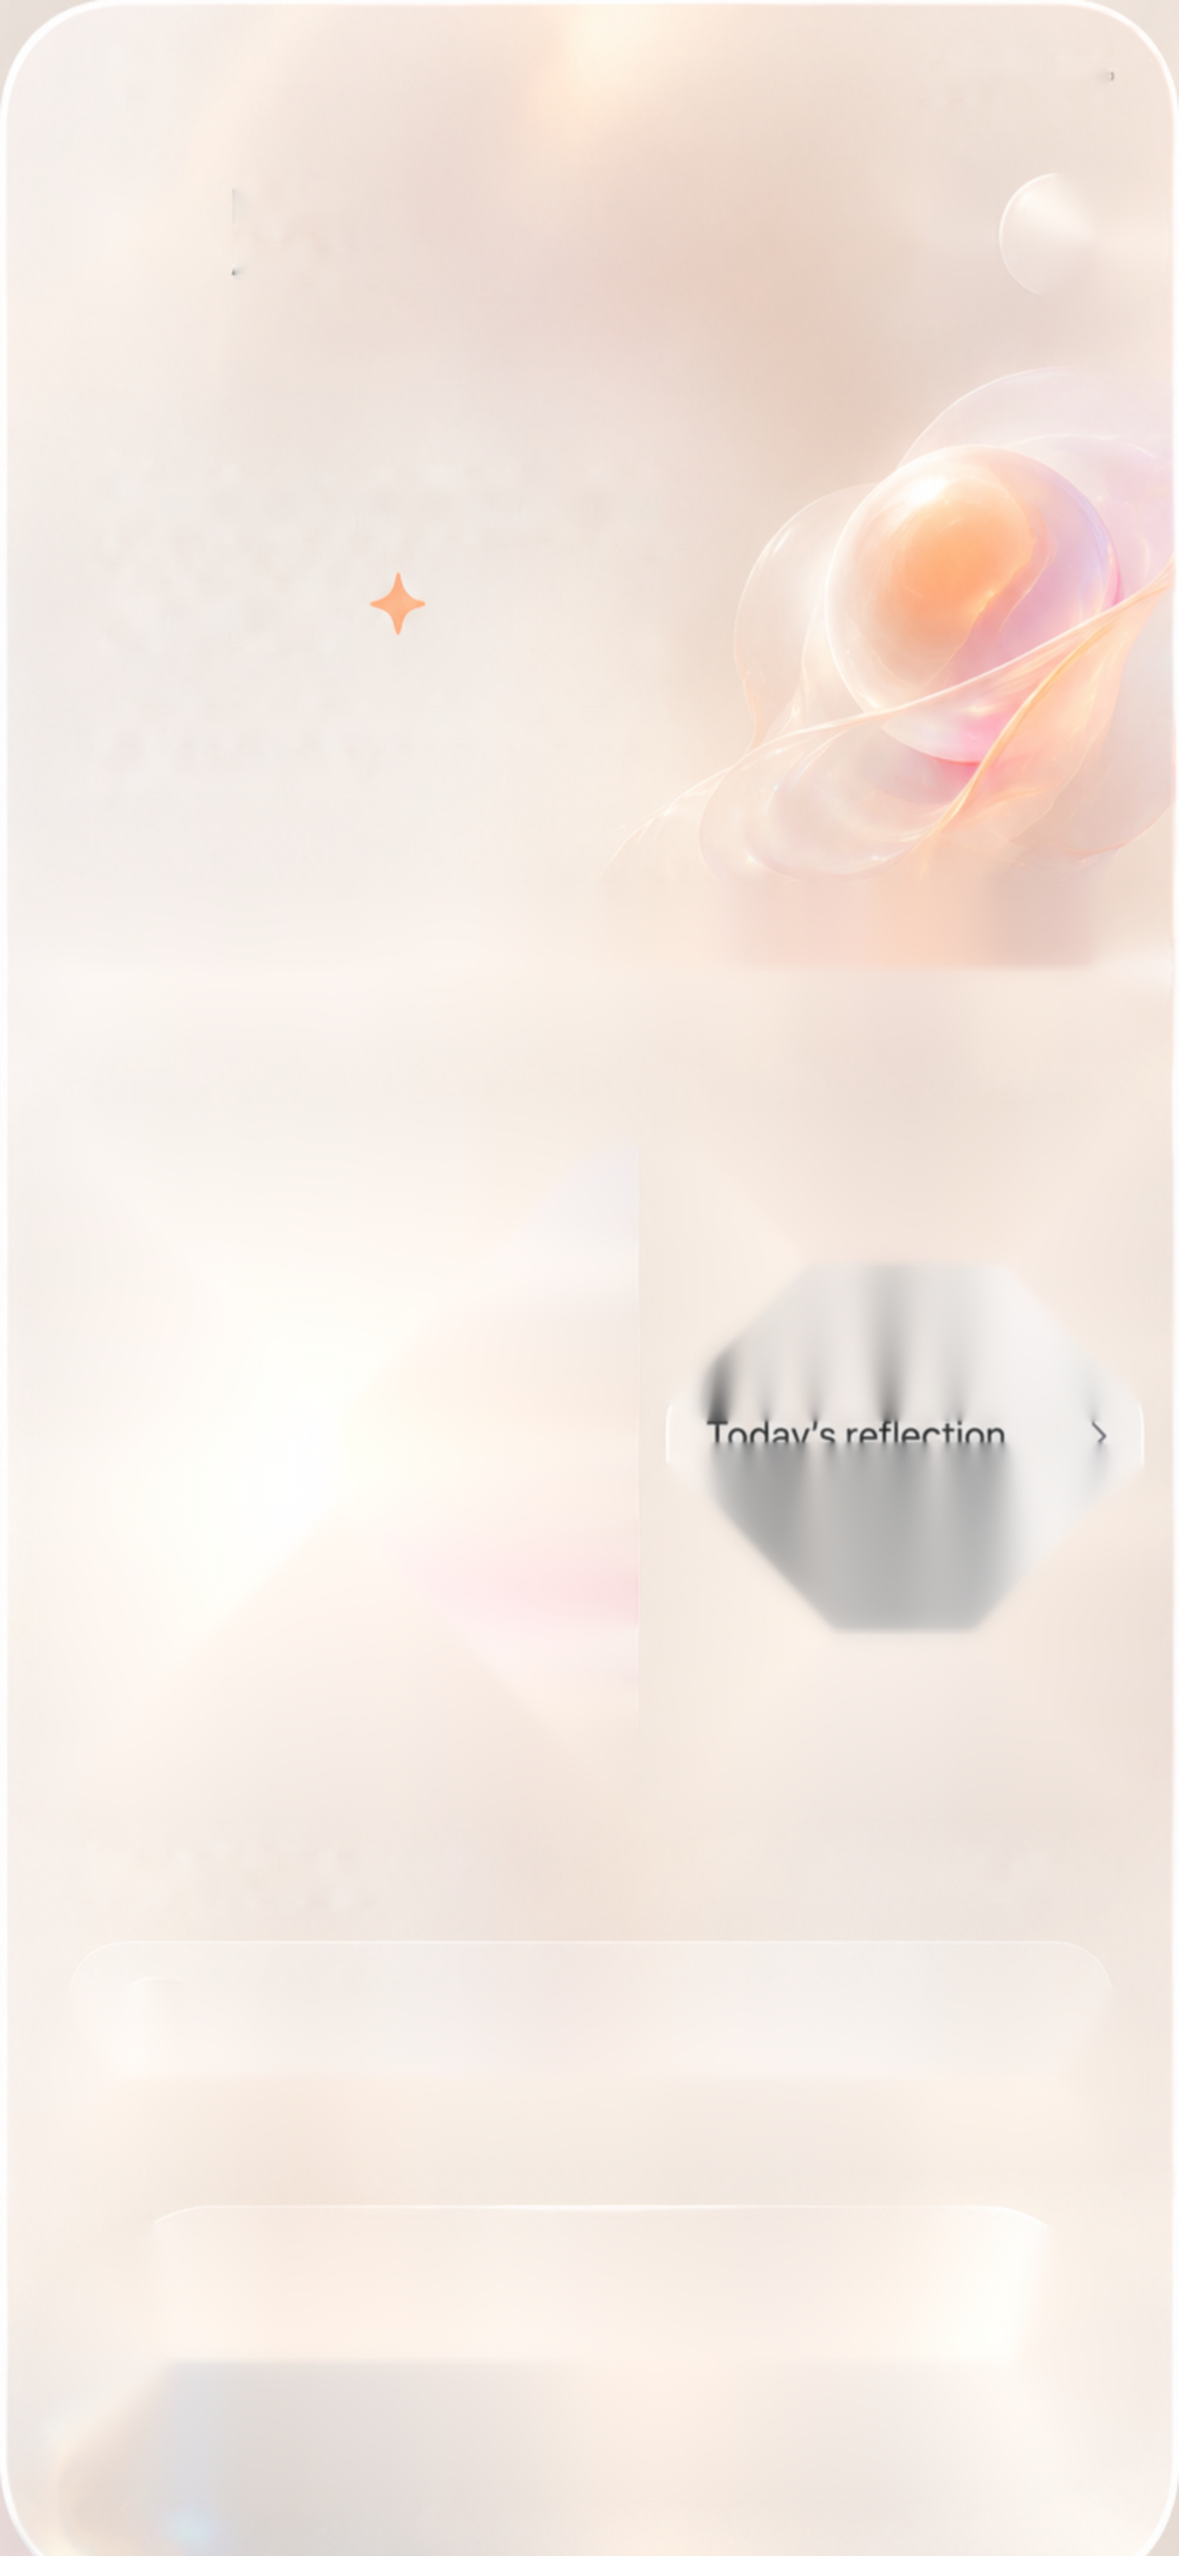
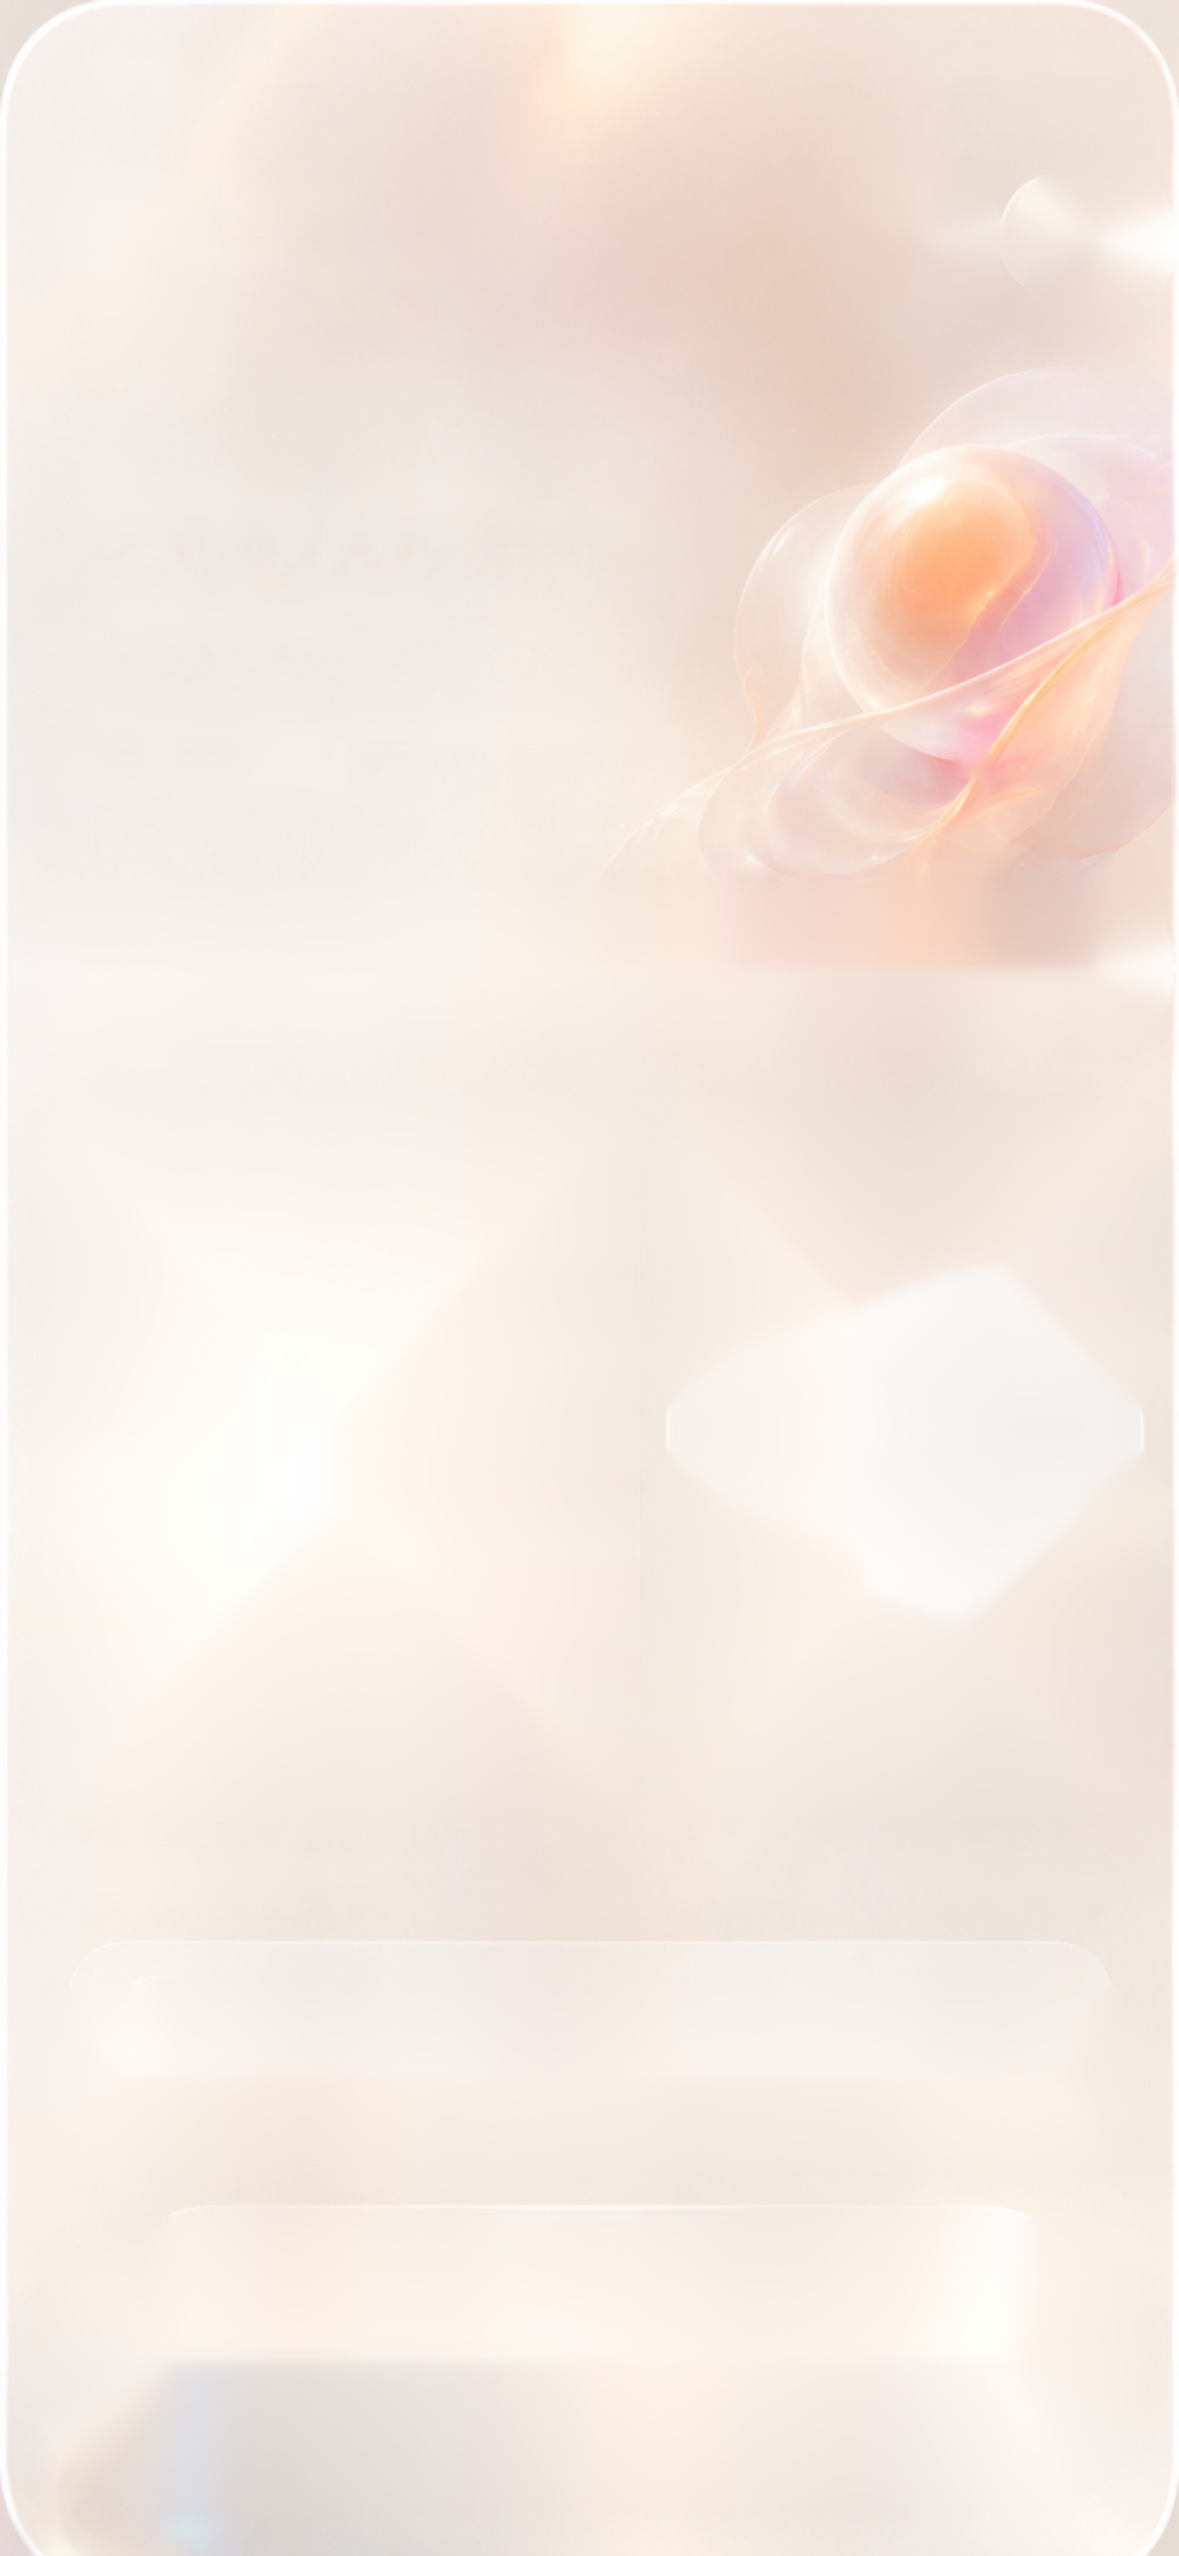
home: fix what only a real render could show
The first CI render of the rebuilt page came back with two defects that
every code read and every hand-composed mock had missed.

The backdrop was leaking the mock's own UI through the glass. Its masks
were hand-placed boxes, so the tail of the subtitle, the top of the
reflection card's title and the orange hero star all fell just outside
them and inpainted as nothing-to-remove. They then bled through the
translucent cards as ghost text. The masks are now derived from the
pixels instead of guessed: every dark glyph anywhere is caught by a
threshold-and-dilate pass, and the hero star by a saturation/hue pass
with a connected-component size limit so the pearl itself survives.
Residual text energy in the finished backdrop drops from 0.220% to
0.018% of the frame.

Mind Guide and Today's reflection were truncating: "Mind Gui…" and
"Your personal…". Measuring the strings against the bundled Poppins made
the cause plain -- "clarity companion." is 93dp at 10sp and the column
offered 74dp, because a 36dp orb plus a 24dp chevron gutter had eaten the
card. The orb drops to 30dp, the insets tighten, and the chevron becomes
an overlay on both cards rather than a reserved gutter, which is what the
sheet does. Body copy allows three lines so a 360dp phone wraps
"companion." onto a third line instead of clipping it mid-word. Same
numbers on both platforms.

Changed region(s): [[0.5802, 0.4945, 0.8855, 0.6491], [0.3053, 0.2164, 0.3664, 0.2473], [0.916, 0.5563, 0.9466, 0.5872]]

diff --git a/android/app/src/main/java/com/grapsee/gsai/ui/home/HomeDashboardScreen.kt b/android/app/src/main/java/com/grapsee/gsai/ui/home/HomeDashboardScreen.kt
@@ -555,13 +555,17 @@ private fun MindGuideCard(onClick: () -> Unit, modifier: Modifier = Modifier) {
         BoxWithConstraints(Modifier.fillMaxSize()) {
             val compact = maxWidth < 148.dp
             Row(
+                // Measured: in a 151dp card the text column needs every point
+                // it can get — "clarity companion." is 93dp at 10sp — so the
+                // orb is 30dp, the insets are tight, and the chevron stays an
+                // overlay instead of a reserved 24dp gutter.
                 modifier = Modifier
                     .fillMaxSize()
                     .padding(
-                        start = if (compact) 8.dp else 10.dp,
-                        end = if (compact) 18.dp else 24.dp,
-                        top = 10.dp,
-                        bottom = 10.dp
+                        start = if (compact) 5.dp else 6.dp,
+                        end = if (compact) 12.dp else 14.dp,
+                        top = 8.dp,
+                        bottom = 8.dp
                     ),
                 verticalAlignment = Alignment.CenterVertically
             ) {
@@ -571,14 +575,14 @@ private fun MindGuideCard(onClick: () -> Unit, modifier: Modifier = Modifier) {
                     painter = painterResource(com.grapsee.gsai.R.drawable.gs_home_mind_orb),
                     contentDescription = null,
                     contentScale = ContentScale.Fit,
-                    modifier = Modifier.size(if (compact) 28.dp else 36.dp)
+                    modifier = Modifier.size(if (compact) 26.dp else 30.dp)
                 )
-                Spacer(Modifier.width(if (compact) 5.dp else 8.dp))
+                Spacer(Modifier.width(if (compact) 5.dp else 6.dp))
                 Column(Modifier.weight(1f)) {
                     Text(
                         text = "Mind Guide",
                         style = MaterialTheme.typography.titleSmall.copy(
-                            fontSize = if (compact) 12.sp else 13.5.sp,
+                            fontSize = if (compact) 12.sp else 13.sp,
                             fontWeight = FontWeight.SemiBold
                         ),
                         color = GsTheme.colors.textPrimary,
@@ -586,17 +590,17 @@ private fun MindGuideCard(onClick: () -> Unit, modifier: Modifier = Modifier) {
                         overflow = TextOverflow.Ellipsis
                     )
                     Text(
-                        // Reference breaks after "personal"; explicit newline
-                        // keeps "clarity companion." on line two in full.
+                        // Reference breaks after "personal". Three lines are
+                        // allowed so a 360dp card wraps "companion." onto a
+                        // third line instead of clipping it to "personal…".
                         text = "Your personal\nclarity companion.",
                         style = MaterialTheme.typography.labelSmall.copy(
-                            fontSize = if (compact) 9.5.sp else 11.sp,
-                            lineHeight = if (compact) 12.sp else 14.sp,
+                            fontSize = if (compact) 9.5.sp else 10.sp,
+                            lineHeight = if (compact) 11.5.sp else 12.5.sp,
                             letterSpacing = 0.sp
                         ),
                         color = GsTheme.colors.textSecondary,
-                        maxLines = 2,
-                        overflow = TextOverflow.Ellipsis
+                        maxLines = 3
                     )
                 }
             }
@@ -619,39 +623,41 @@ private fun ReflectionCard(onClick: () -> Unit, modifier: Modifier = Modifier) {
         BoxWithConstraints(Modifier.fillMaxSize()) {
             val compact = maxWidth < 148.dp
             // Lotus painted first; copy keeps its own z-plane.
-            Column(Modifier.fillMaxSize().padding(12.dp).zIndex(1f)) {
-                Row(verticalAlignment = Alignment.CenterVertically) {
-                    Text(
-                        text = "Today's reflection",
-                        style = MaterialTheme.typography.titleSmall.copy(
-                            fontSize = if (compact) 12.sp else 13.5.sp,
-                            fontWeight = FontWeight.SemiBold
-                        ),
-                        color = GsTheme.colors.textPrimary,
-                        maxLines = 1,
-                        modifier = Modifier.weight(1f)
-                    )
-                    Icon(
-                        GsIcons.ChevronRight,
-                        contentDescription = null,
-                        tint = GsTheme.colors.textTertiary,
-                        modifier = Modifier.size(13.dp)
-                    )
-                }
+            Column(Modifier.fillMaxSize().padding(horizontal = 12.dp, vertical = 10.dp).zIndex(1f)) {
+                // The chevron overlays the corner instead of eating 13+4dp of
+                // the title's measure: "Today's reflection" is 112dp at 12.5sp
+                // and a 360dp card only offers 113dp.
+                Text(
+                    text = "Today's reflection",
+                    style = MaterialTheme.typography.titleSmall.copy(
+                        fontSize = if (compact) 12.sp else 12.5.sp,
+                        fontWeight = FontWeight.SemiBold
+                    ),
+                    color = GsTheme.colors.textPrimary,
+                    maxLines = 1
+                )
                 Spacer(Modifier.height(2.dp))
                 Text(
                     text = "Take a moment to check in with yourself.",
                     style = MaterialTheme.typography.labelSmall.copy(
-                        fontSize = if (compact) 9.5.sp else 11.sp,
-                        lineHeight = if (compact) 12.sp else 14.sp,
+                        fontSize = if (compact) 9.5.sp else 10.5.sp,
+                        lineHeight = if (compact) 11.5.sp else 13.sp,
                         letterSpacing = 0.sp
                     ),
                     color = GsTheme.colors.textSecondary,
-                    maxLines = 2,
-                    overflow = TextOverflow.Ellipsis,
-                    modifier = Modifier.padding(end = if (compact) 6.dp else 12.dp)
+                    maxLines = 3
                 )
             }
+            Icon(
+                GsIcons.ChevronRight,
+                contentDescription = null,
+                tint = GsTheme.colors.textTertiary,
+                modifier = Modifier
+                    .align(Alignment.TopEnd)
+                    .padding(top = 13.dp, end = 10.dp)
+                    .size(13.dp)
+                    .zIndex(2f)
+            )
             Box(Modifier.align(Alignment.BottomEnd).offset(x = 4.dp, y = 8.dp)) {
                 // The authored lotus from the reference — feathered so it
                 // melts into the card surface rather than sitting on top.

diff --git a/ios/App/Sources/Features/Home/HomeDashboardView.swift b/ios/App/Sources/Features/Home/HomeDashboardView.swift
@@ -428,28 +428,41 @@ private struct MindGuideCard: View {
     let action: () -> Void
     var body: some View {
         Button(action: action) {
-            HStack(spacing: 8) {
-                // The authored pearl orb from the reference render.
-                Image("GSHomeMindOrb")
-                    .resizable()
-                    .scaledToFit()
-                    .frame(width: 36, height: 36)
-                VStack(alignment: .leading, spacing: 2) {
-                    Text("Mind Guide")
-                        .font(.system(size: 13.5, weight: .semibold))
-                        .foregroundStyle(Aero.text)
-                        .lineLimit(1)
-                    Text("Your personal\nclarity companion.")
-                        .font(.system(size: 11))
-                        .foregroundStyle(Aero.textMuted)
-                        .lineLimit(2)
-                        .fixedSize(horizontal: false, vertical: true)
+            ZStack {
+                // "clarity companion." measures 93pt at 10pt, so the text
+                // column keeps every point: a 30pt orb, tight insets, and the
+                // chevron overlaid in the corner rather than reserving a gutter.
+                HStack(spacing: 6) {
+                    Image("GSHomeMindOrb")
+                        .resizable()
+                        .scaledToFit()
+                        .frame(width: 30, height: 30)
+                    VStack(alignment: .leading, spacing: 2) {
+                        Text("Mind Guide")
+                            .font(.system(size: 13, weight: .semibold))
+                            .foregroundStyle(Aero.text)
+                            .lineLimit(1)
+                        Text("Your personal\nclarity companion.")
+                            .font(.system(size: 10))
+                            .lineSpacing(1.5)
+                            .foregroundStyle(Aero.textMuted)
+                            // Three lines so a 360pt phone wraps "companion."
+                            // rather than clipping it to "personal…".
+                            .lineLimit(3)
+                            .fixedSize(horizontal: false, vertical: true)
+                    }
+                    Spacer(minLength: 0)
                 }
-                Spacer(minLength: 0)
-                Image(systemName: "chevron.right")
-                    .font(.system(size: 11, weight: .semibold)).foregroundStyle(Aero.textMuted)
+                .padding(.horizontal, 6)
+                .padding(.vertical, 8)
+                HStack {
+                    Spacer()
+                    Image(systemName: "chevron.right")
+                        .font(.system(size: 11, weight: .semibold))
+                        .foregroundStyle(Aero.textMuted)
+                        .padding(.trailing, 10)
+                }
             }
-            .padding(12)
             .frame(maxWidth: .infinity, maxHeight: .infinity, alignment: .leading)
             .gsGlass(.card, corner: 16)
         }
@@ -470,21 +483,25 @@ private struct ReflectionCard: View {
                     .offset(x: 4, y: 8)
                     .allowsHitTesting(false)
                 VStack(alignment: .leading, spacing: 4) {
-                    HStack {
-                        Text("Today's reflection")
-                            .font(.system(size: 13.5, weight: .semibold))
-                            .foregroundStyle(Aero.text)
-                            .lineLimit(1)
-                        Spacer()
-                        Image(systemName: "chevron.right")
-                            .font(.system(size: 12, weight: .semibold)).foregroundStyle(Aero.textMuted)
-                    }
+                    // The chevron overlays the corner: "Today's reflection" is
+                    // 112pt at 12.5pt and a 360pt card only offers ~113pt, so
+                    // sharing the row with a Spacer+glyph clipped the title.
+                    Text("Today's reflection")
+                        .font(.system(size: 12.5, weight: .semibold))
+                        .foregroundStyle(Aero.text)
+                        .lineLimit(1)
                     Text("Take a moment to check in with yourself.")
-                        .font(.system(size: 11))
+                        .font(.system(size: 10.5))
+                        .lineSpacing(1.5)
                         .foregroundStyle(Aero.textMuted)
-                        .lineLimit(2)
+                        .lineLimit(3)
                         .fixedSize(horizontal: false, vertical: true)
-                        .padding(.trailing, 20)
+                }
+                .padding(.trailing, 18)
+                HStack {
+                    Spacer()
+                    Image(systemName: "chevron.right")
+                        .font(.system(size: 12, weight: .semibold)).foregroundStyle(Aero.textMuted)
                 }
             }
             .padding(14)
